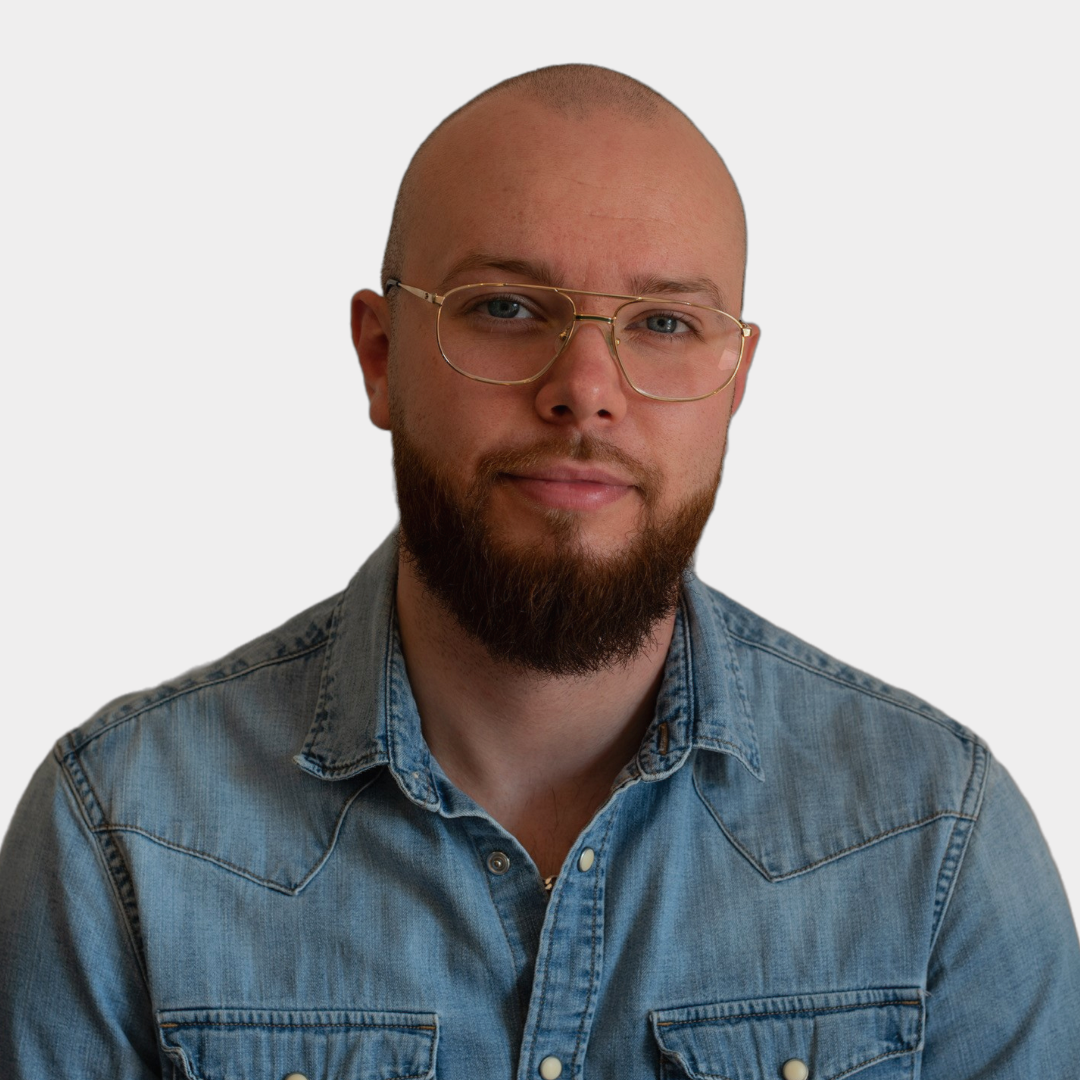
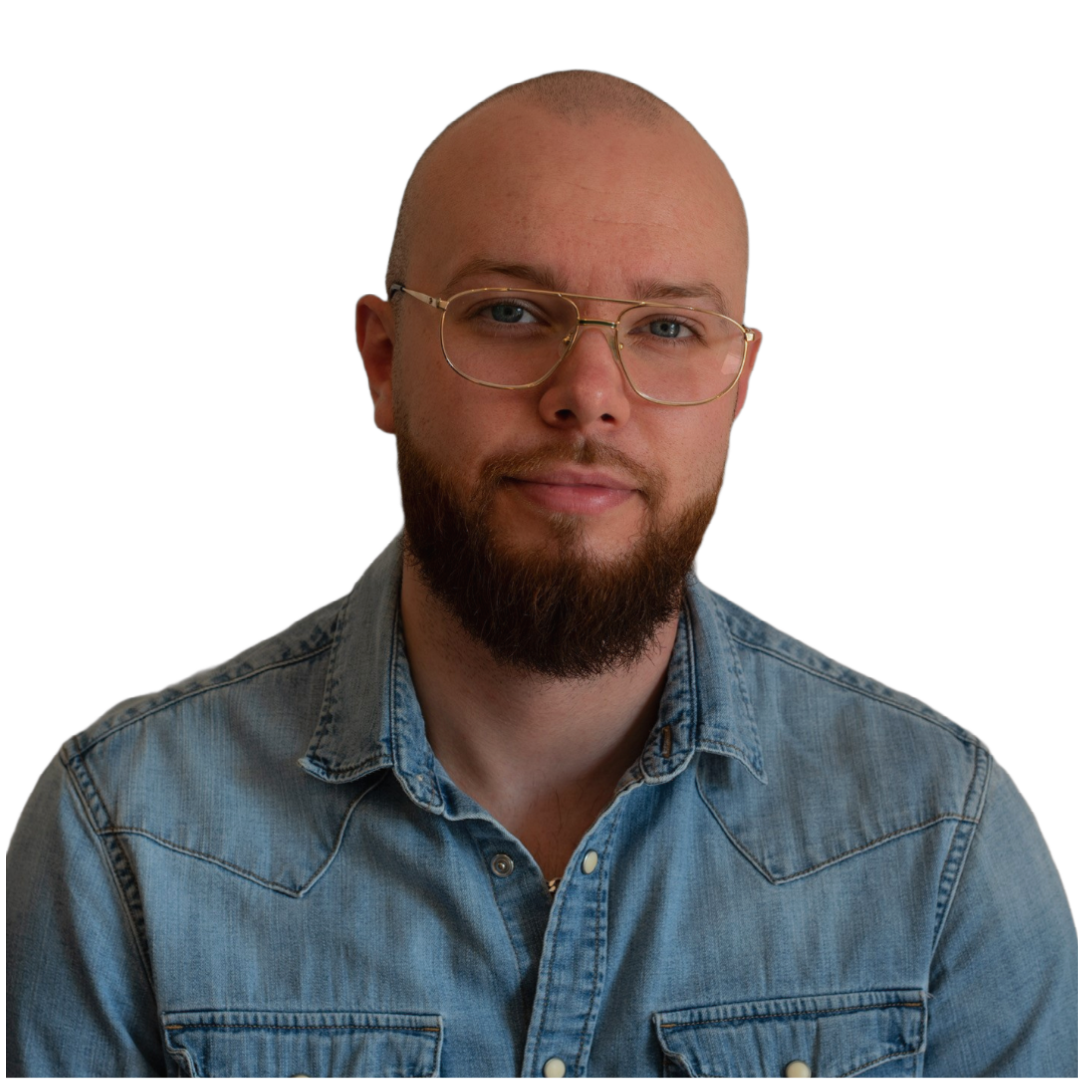
amended print section and profile img

diff --git a/src/app/f-footer/f-footer.component.scss b/src/app/f-footer/f-footer.component.scss
@@ -27,17 +27,20 @@ footer {
 
 .footerLink {
     display: flex;
-    cursor: pointer;
+
 
     a {
         text-decoration: none;
         color: #8491A0;
         text-align: center !important;
+        cursor: pointer;
+
+        &:hover {
+            filter: brightness(1.3);
+        }
     }
 
-    &:hover {
-        filter: brightness(1.3);
-    }
+
 }
 
 .footerPic {
@@ -63,11 +66,11 @@ footer {
     text-align: center;
     cursor: default;
 
-    @media (max-width: 1245x) {
-        top: 4589px !important;
+    @media (max-width: 1245px) {
+        top: 4589px;
     }
     
-    @media (max-width: 1111x) {
+    @media (max-width: 1111px) {
         top: 5305px;
         height: 792px;
         width: 93%;

diff --git a/src/app/a-header/a-header.component.scss b/src/app/a-header/a-header.component.scss
@@ -119,7 +119,7 @@ header {
         height: auto;
         border-top-right-radius: 15px;
         border-top-left-radius: 200px;
-        border-bottom-left-radius: 15px;
+        border-bottom-left-radius: 12%;
         border-bottom-right-radius: 200px;
     }
     @media (max-width: 1111px) {
@@ -128,6 +128,7 @@ header {
         width: 260px;
         padding-bottom: 15px;
         padding-top: 15px;
+        border-bottom-left-radius: 12%;
         }
     }
     @media (max-width: 400px) {
@@ -135,6 +136,7 @@ header {
         width: 200px;
         border-top-left-radius: 140px;
         border-bottom-right-radius: 140px;
+        border-bottom-left-radius: 13%;
         }
     }
 }
